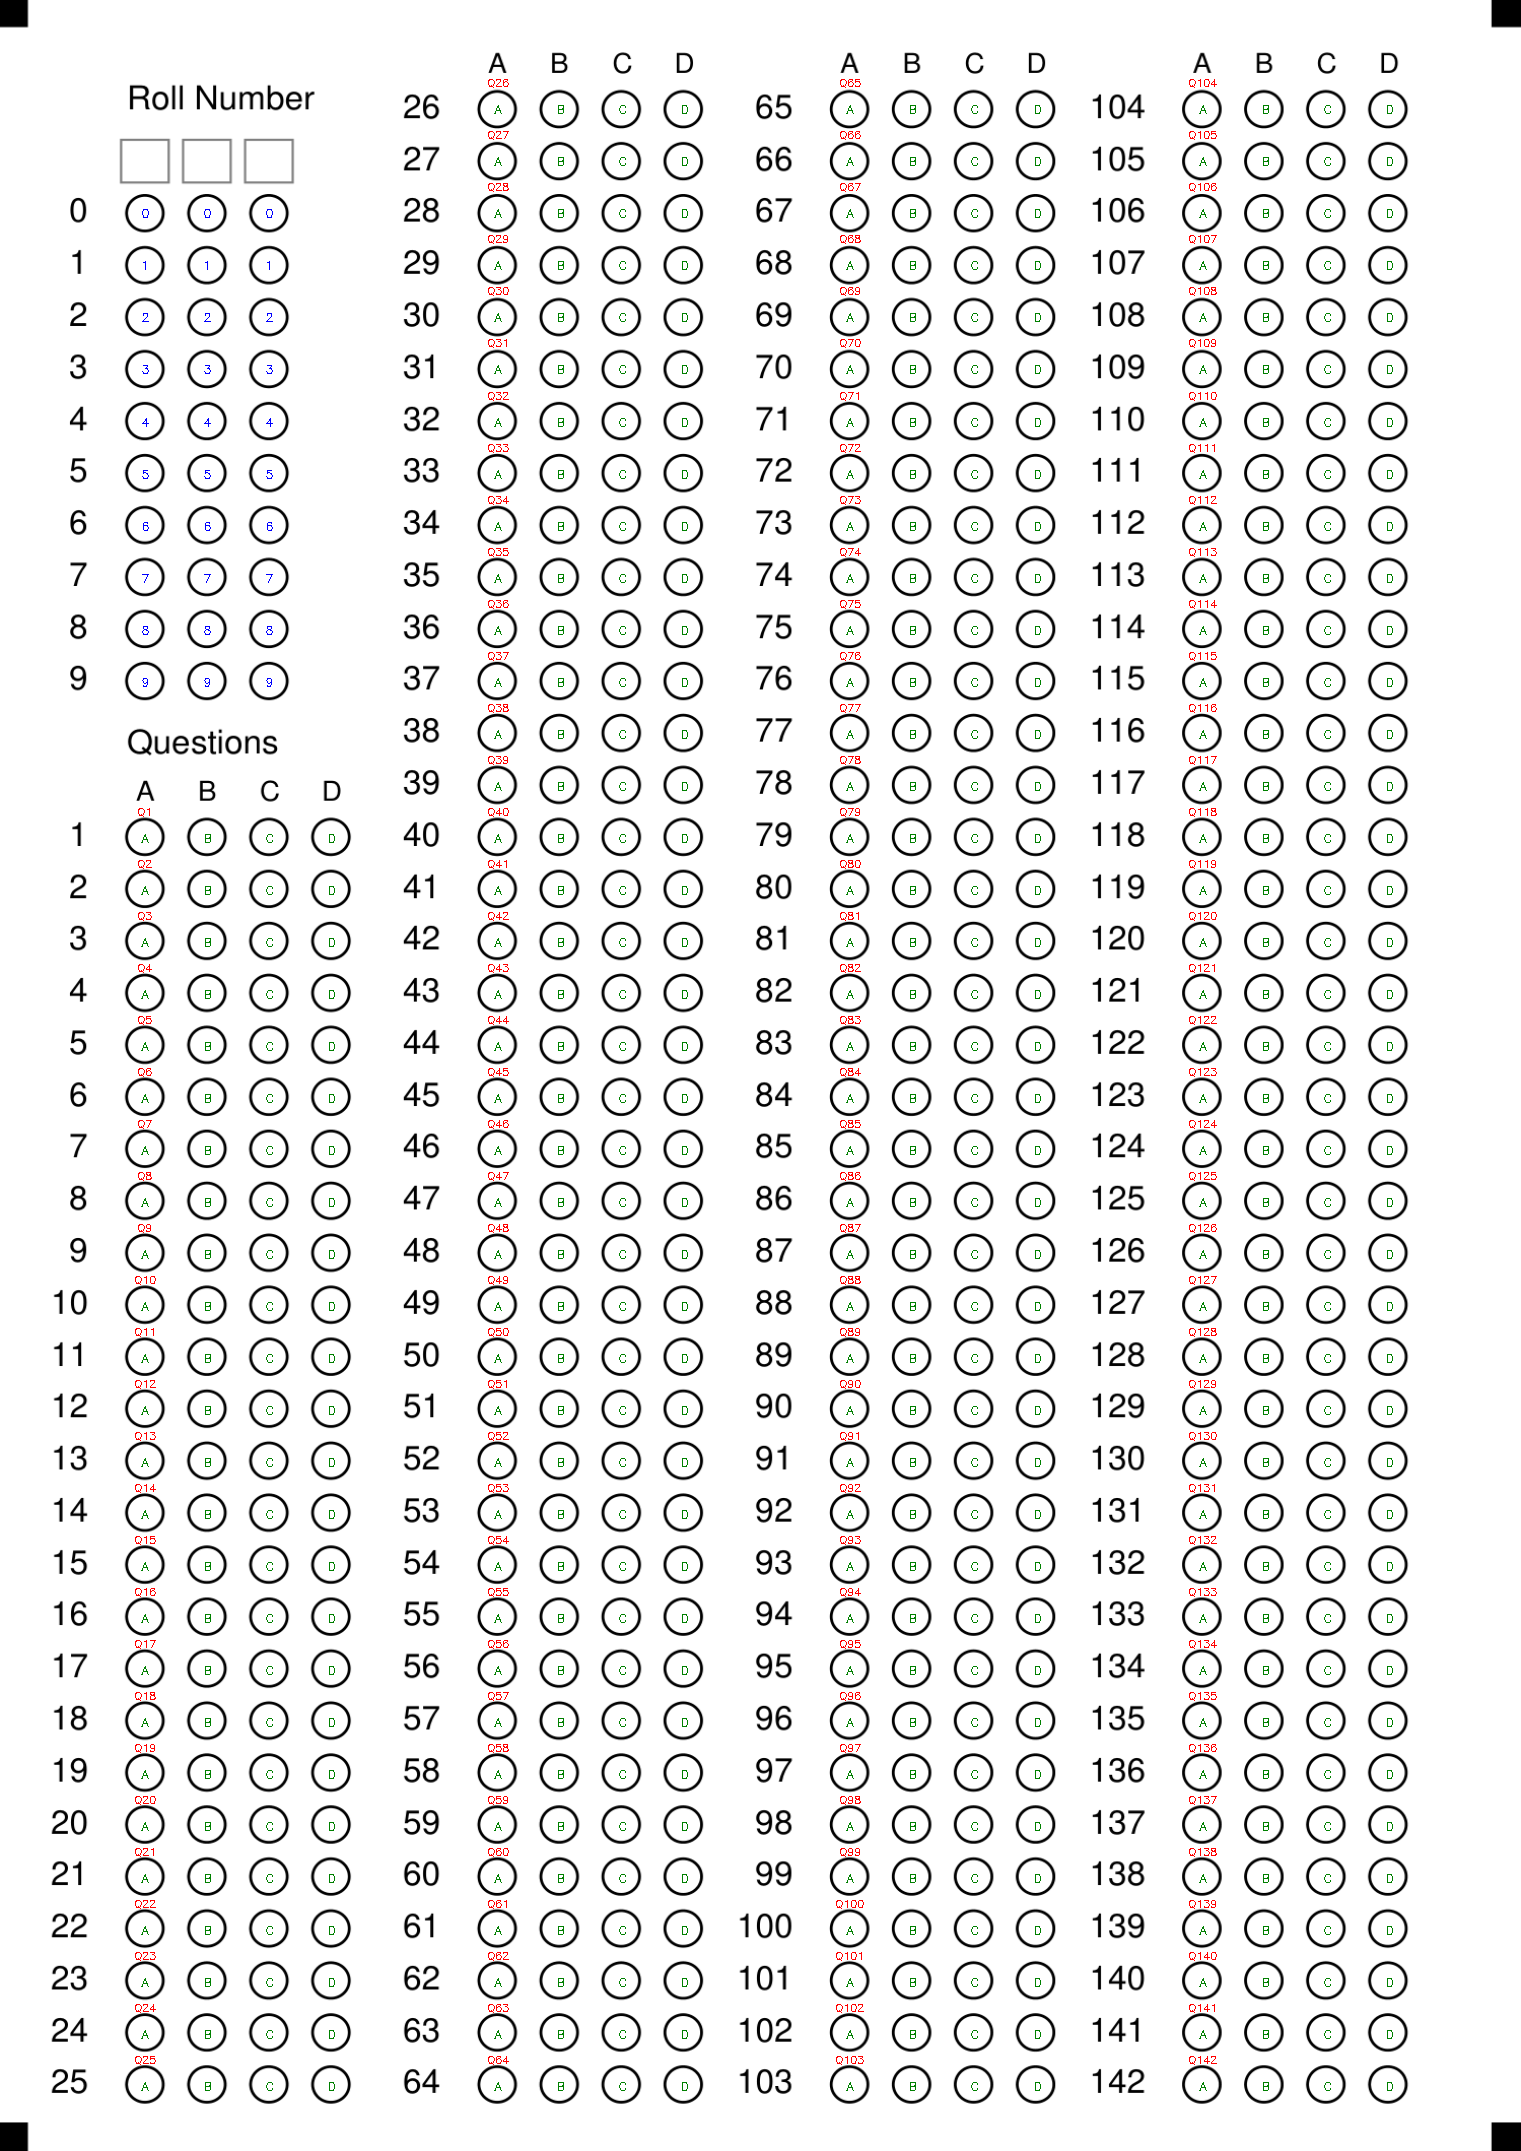
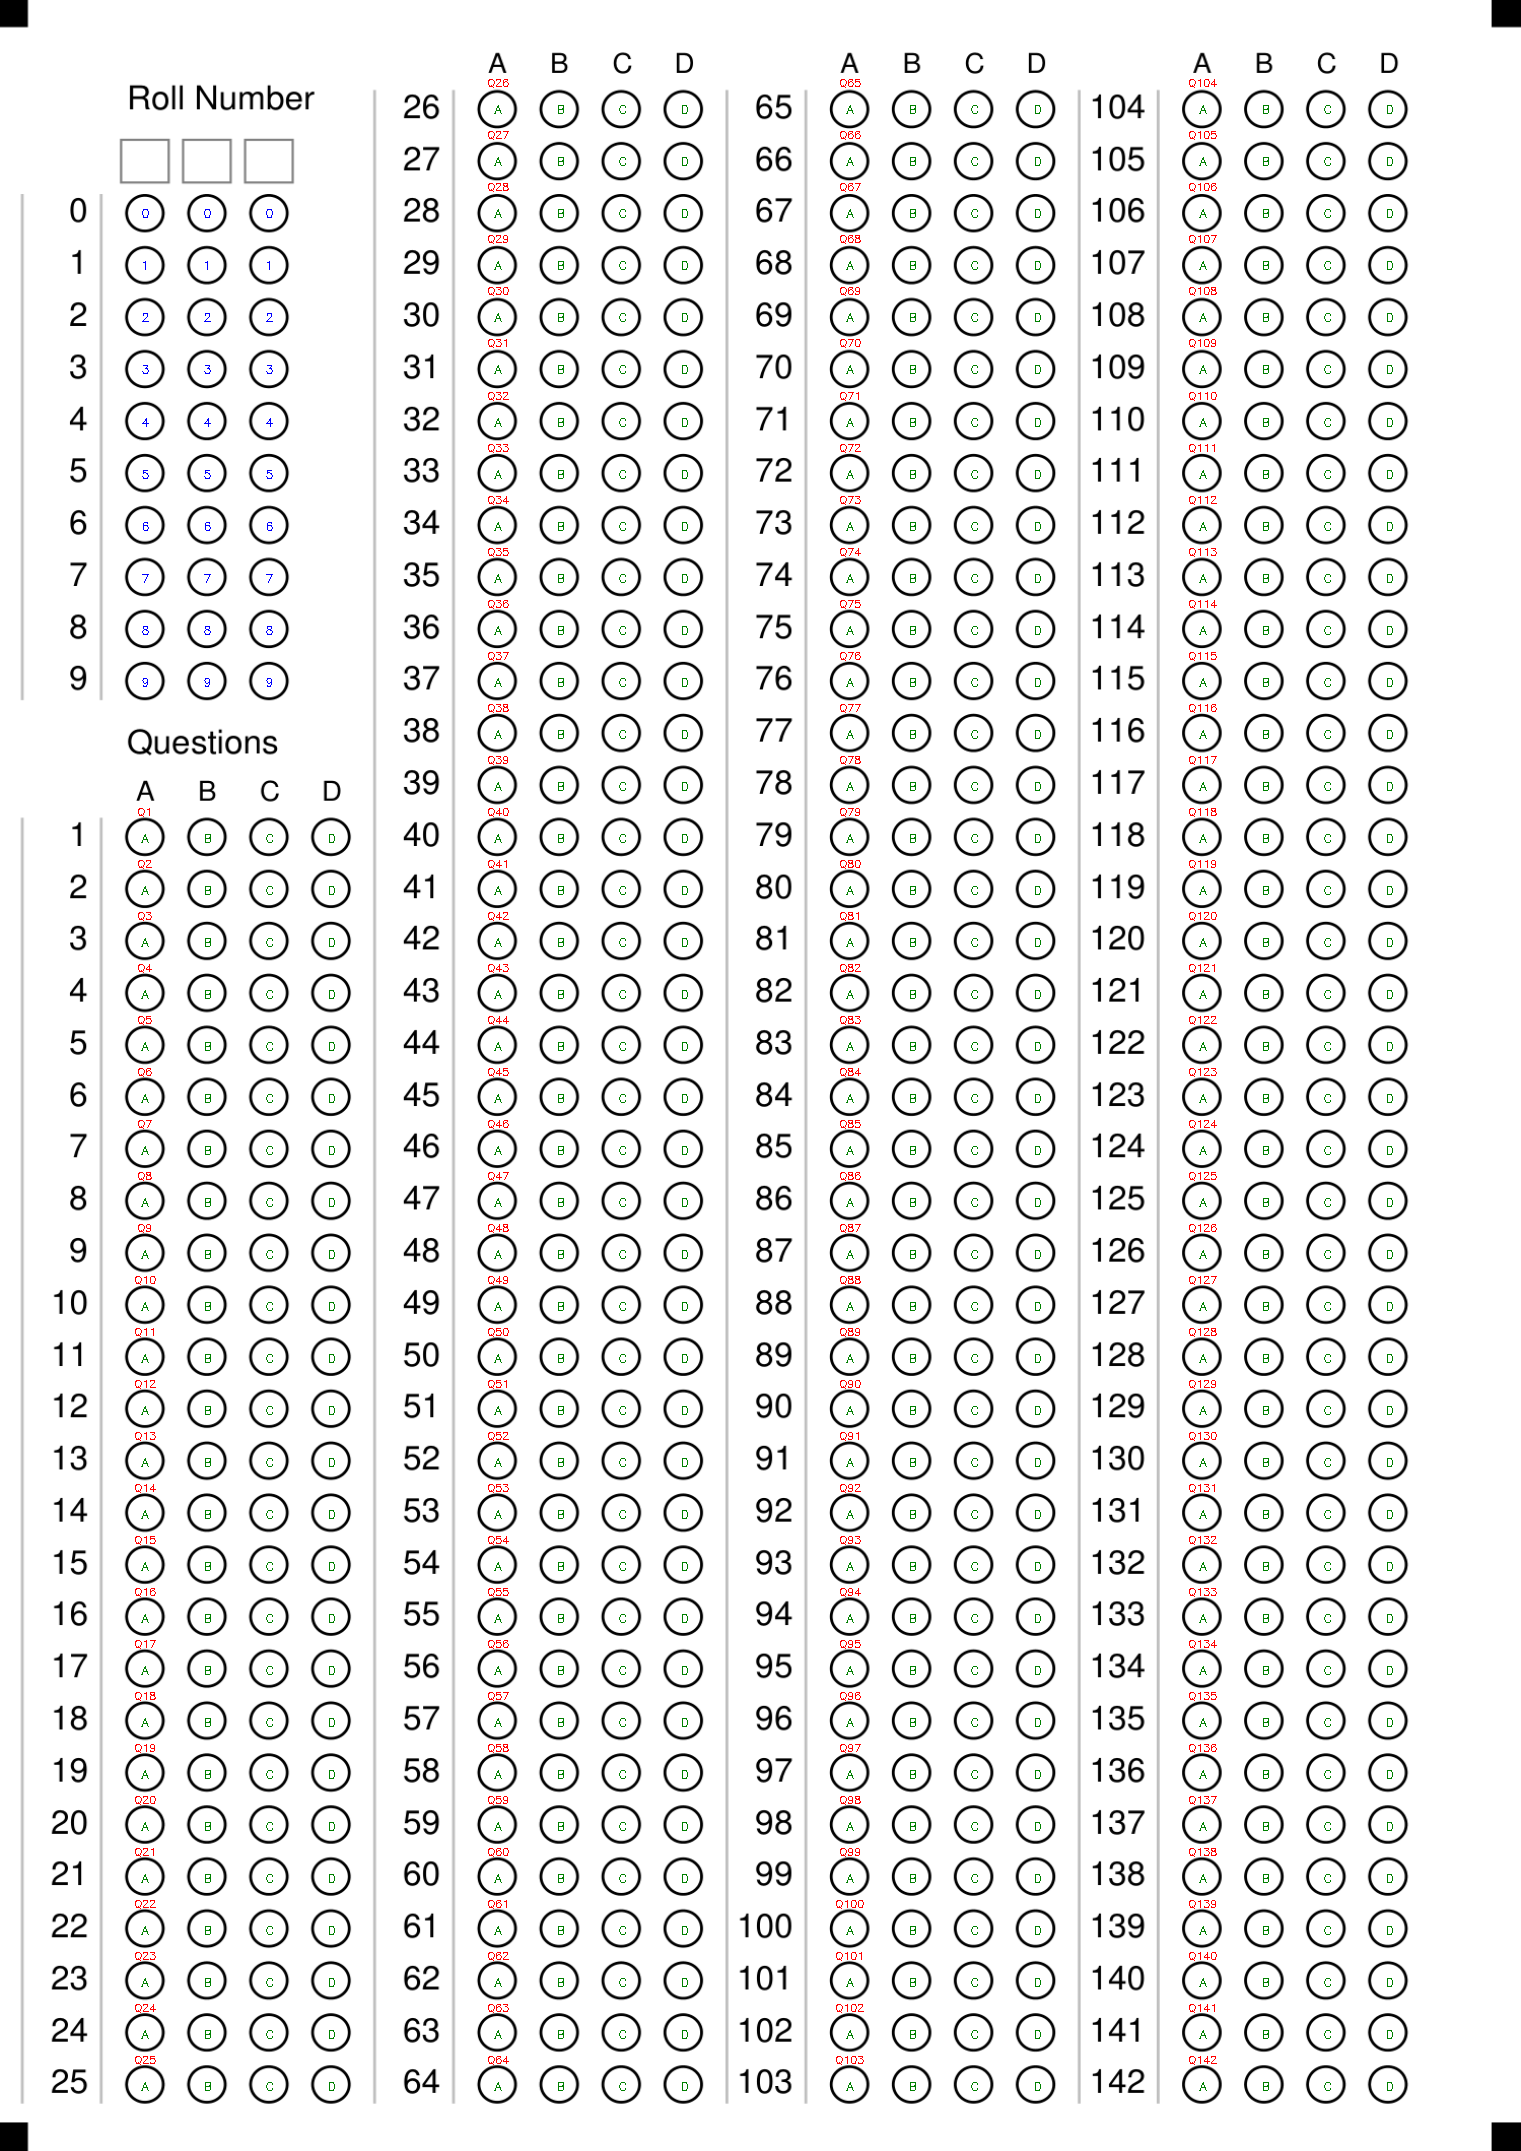
Add vertical divider lines to label columns for improved readability

diff --git a/omr_sheet_generator_new.py b/omr_sheet_generator_new.py
@@ -68,6 +68,18 @@ def _ellipse(
     pdf.ellipse(x, geom.height - y - height, width, height, style=style)
 
 
+def _line(
+    pdf: OMRPDF,
+    geom: PageGeometry,
+    x1: float,
+    y1: float,
+    x2: float,
+    y2: float,
+) -> None:
+    """Draw a line using bottom-left coordinates."""
+    pdf.line(x1, geom.height - y1, x2, geom.height - y2)
+
+
 def draw_anchor_markers(pdf: OMRPDF, geom: PageGeometry, markers: MarkerConfig) -> None:
     inset = geom.margin / 2
     positions = [
@@ -145,6 +157,19 @@ def draw_roll_number_section(
     gap_before_bubble = 5
     rows_seen = set()
 
+    # Find the topmost and bottommost bubble y-coordinates
+    min_y = min(bubble.y - bubble.radius for bubble in bubbles)
+    max_y = max(bubble.y + bubble.radius for bubble in bubbles)
+
+    # Draw vertical lines on either side of the label column
+    left_line_x = geom.margin
+    right_line_x = geom.margin + layout.label_column_width
+    pdf.set_draw_color(192, 192, 192)  # Light grey
+    pdf.set_line_width(1)
+    _line(pdf, geom, left_line_x, min_y, left_line_x, max_y)
+    _line(pdf, geom, right_line_x, min_y, right_line_x, max_y)
+    pdf.set_draw_color(0, 0, 0)  # Reset to black
+
     for bubble in bubbles:
         if bubble.row is not None and bubble.row not in rows_seen:
             label_end_x = geom.margin + layout.label_column_width - gap_before_bubble
@@ -209,6 +234,33 @@ def draw_question_columns(
             max_question_per_column.get(bubble.question_column, 0),
             bubble.question,
         )
+
+    # Calculate min and max y-coordinates for each question column
+    column_y_ranges: dict[int, tuple[float, float]] = {}
+    for bubble in bubbles:
+        if bubble.question_column is None:
+            continue
+        col = bubble.question_column
+        min_y = bubble.y - bubble.radius
+        max_y = bubble.y + bubble.radius
+        if col in column_y_ranges:
+            column_y_ranges[col] = (
+                min(column_y_ranges[col][0], min_y),
+                max(column_y_ranges[col][1], max_y),
+            )
+        else:
+            column_y_ranges[col] = (min_y, max_y)
+
+    # Draw vertical lines on either side of each label column
+    pdf.set_draw_color(192, 192, 192)  # Light grey
+    pdf.set_line_width(1)
+    for col, (min_y, max_y) in column_y_ranges.items():
+        column_origin = geom.margin + col * layout.group_width(sheet.question_options)
+        left_line_x = column_origin
+        right_line_x = column_origin + layout.label_column_width
+        _line(pdf, geom, left_line_x, min_y, left_line_x, max_y)
+        _line(pdf, geom, right_line_x, min_y, right_line_x, max_y)
+    pdf.set_draw_color(0, 0, 0)  # Reset to black
 
     pdf.set_font("Helvetica", size=12)
     digit_width = 6.5
